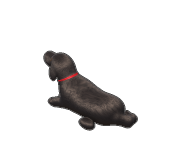
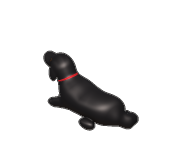
Myrtle: sleek, glossy short Labrador coat
- Smooth satin shading with soft glossy highlights on back, shoulders and
  head; only a hint of hair texture near the silhouette (no poodle curls)
- Darker, less grey back views; smooth otter tail (blended segments)
- Head carried higher so she looks forward, not down (sit and stand)
- Same thin red collar and brass tag, poses, facings, frame size and anchor

diff --git a/tools/make_myrtle.py b/tools/make_myrtle.py
@@ -42,9 +42,9 @@ PX_CM = math.hypot(56, 28) / 60 / math.cos(math.radians(45)) * math.cos(math.rad
 SCALE = 1.32 * 0.94                      # px per cm on screen; 0.94 keeps her at her old size
 EL = math.radians(30)
 
-COAT = np.array([22, 20, 21], np.float32)
-SHEEN = np.array([150, 132, 116], np.float32)      # satin, warm brown-grey (the photo's chest and head)
-RIM = np.array([84, 86, 96], np.float32)
+COAT = np.array([18, 17, 18], np.float32)
+SHEEN = np.array([150, 140, 134], np.float32)      # glossy, a warm grey (the photo's back, shoulders and head)
+RIM = np.array([70, 72, 80], np.float32)
 WARM = np.array([78, 54, 34], np.float32)
 LINE = (14, 11, 10)                                # painted outline
 COLLAR = np.array([196, 34, 40], np.float32)
@@ -284,7 +284,7 @@ def tail(pts, r0=5.4, r1=2.0):
     for i in range(n):
         ra = r0 + (r1 - r0) * i / n
         rb = r0 + (r1 - r0) * (i + 1) / n
-        out.append(RC(pts[i], pts[i + 1], ra, rb, k=3))
+        out.append(RC(pts[i], pts[i + 1], ra, rb, k=6))       # blended smooth: an otter tail, no knuckles
     return out
 
 
@@ -295,7 +295,7 @@ def pose_walk(i=None):
     parts = body_stand(bob)
     na, nb = (22, 0, 51 + bob), (33, 0, 63 + bob)
     parts += [RC(na, nb, 9.6, 7.4, k=5)]
-    parts += head_parts((39.5, 0, 67.5 + bob), look_up=-0.08)
+    parts += head_parts((39.5, 0, 67.5 + bob), look_up=0.12)
     wag = 0.45 * math.sin(ph) if moving else 0.18
     parts += tail([(-30, 0, 46 + bob), (-39, 6 * math.sin(wag), 40 + bob), (-46, 12 * math.sin(wag), 31 + bob),
                    (-49, 16 * math.sin(wag), 21 + bob)], 6.4, 2.2)
@@ -315,7 +315,7 @@ def pose_sit():
              EL_((-7, 10.2, 13), (12.5, 4.6, 10), k=4), EL_((-7, -10.2, 13), (12.5, 4.6, 10), k=4)]   # thighs
     na, nb = (12, 0, 56), (17, 0, 72)
     parts += [RC(na, nb, 9.4, 7.4, k=5)]
-    parts += head_parts((22, 0, 79), look_up=0.34, tongue=True, open_mouth=True)
+    parts += head_parts((22, 0, 79), look_up=0.42, tongue=True, open_mouth=True)
     for side in (6.2, -6.2):
         parts += [EL_((10, side * 1.08, 44), (6, 4.6, 8), k=4),                             # shoulder
                   RC((12, side, 41), (12.5, side * 1.02, 26), 6.0, 4.4, k=4),               # upper arm to elbow
@@ -427,34 +427,31 @@ def render(model, facing):
     nv = np.clip(n @ V, 0, 1)
     ao = np.clip(0.55 + 0.45 * (model.d(p + n * 2.5) / 2.5 + model.d(p + n * 6.0) / 6.0) * 0.5, 0.35, 1.0)
     upz = n[:, 2]
-    # fur direction: back along the body and down the legs and chest, laid
-    # flat on the surface. Brush strokes run along it, fine across it.
+    # A short, sleek Labrador coat: smooth satin shading, glossy soft
+    # highlights on back, shoulders and head, and only a hint of hair where
+    # the surface turns away at the silhouette.
     down = np.clip((34 - p[:, 2]) / 18, 0, 1) + 0.6 * np.clip(p[:, 0] / 12, 0, 1)
     flow = np.stack([-np.ones(len(p), np.float32), np.zeros(len(p), np.float32), -0.45 - 1.6 * down], 1)
     T = flow - n * np.einsum("ij,ij->i", flow, n)[:, None]
     T /= np.linalg.norm(T, axis=1, keepdims=True) + 1e-6
     B = np.cross(n, T)
-    a_ = np.einsum("ij,ij->i", p, T)
-    b_ = np.einsum("ij,ij->i", p, B)
-    c_ = np.einsum("ij,ij->i", p, n)
-    q = np.stack([a_, b_, c_], 1)
-    strokes = (vnoise(q * np.array([0.22, 1.5, 1.5], np.float32)) * 0.55
-               + vnoise(q * np.array([0.45, 3.4, 3.4], np.float32) + 17.0) * 0.30
-               + vnoise(q * np.array([0.10, 0.6, 0.6], np.float32) + 41.0) * 0.15)
-    fur = strokes
+    q = np.stack([np.einsum("ij,ij->i", p, T), np.einsum("ij,ij->i", p, B), np.einsum("ij,ij->i", p, n)], 1)
+    hair = vnoise(q * np.array([0.35, 2.6, 2.6], np.float32))          # fine, along the lie of the coat
+    edge = np.clip((1 - nv) * 1.6 - 0.55, 0, 1) ** 1.5                   # only near the silhouette
+    fur = 0.5 + (hair - 0.5) * (0.12 + 0.7 * edge)
     col = np.zeros((len(idx), 3), np.float32)
     m = mat == 0
-    key = COAT[None] * (0.6 + 1.3 * wrap[:, None]) * ao[:, None]
-    # satin strand highlight (Kajiya-Kay): soft bands across the hair, broken by the strokes
+    key = COAT[None] * (0.62 + 1.2 * wrap[:, None]) * ao[:, None]
+    # glossy: a broad soft lobe plus a tighter one, stretched a touch along the hair
     th = np.einsum("ij,j->i", T, H)
     sinth = np.sqrt(np.clip(1 - th * th, 0, 1))
-    lit_side = np.clip(nl + 0.2, 0, 1)
-    sheen = SHEEN[None] * ((0.30 * sinth ** 30 + 0.09 * sinth ** 8) * lit_side * (0.35 + 1.2 * fur) * ao)[:, None]
-    # a warm lift where the light catches chest, shoulders and head
-    warm_hi = np.clip(upz * 0.5 + nl * 0.7, 0, 1) ** 2
-    rim = RIM[None] * (0.45 * (1 - nv) ** 3.0 * np.clip(upz + 0.6, 0, 1.2))[:, None]
-    warm = WARM[None] * (0.30 * np.clip(-upz, 0, 1) + 0.26 * warm_hi * fur)[:, None]
-    coat = key * (0.82 + 0.36 * fur[:, None]) + sheen + rim + warm
+    gloss = 0.5 * nh ** 22 + 0.5 * (sinth ** 60) * nh ** 4
+    soft = nh ** 5
+    top = np.clip(upz * 0.6 + 0.5, 0, 1)                                # back, shoulders and head catch it most
+    sheen = SHEEN[None] * ((0.62 * gloss + 0.14 * soft) * (0.55 + 0.45 * top) * ao * (0.9 + 0.2 * fur))[:, None]
+    rim = RIM[None] * (0.22 * (1 - nv) ** 3.0 * np.clip(upz + 0.6, 0, 1.2))[:, None]
+    warm = WARM[None] * (0.26 * np.clip(-upz, 0, 1))[:, None]
+    coat = key * (0.92 + 0.16 * fur[:, None]) + sheen + rim + warm
     col[m] = coat[m]
     lit = (0.45 + 0.8 * wrap)[:, None]
     spec = (nh ** 30)[:, None]

diff --git a/NOTES.md b/NOTES.md
@@ -31,10 +31,10 @@ and depth sorting stay untouched.
   of a Labrador (round cones and ellipsoids with smooth unions: deep chest,
   tucked waist, rounded skull, drop ears, otter tail, shaped legs and paws),
   ray-marched through the house's 2:1 camera at 3x with the rooms' light, a
-  satin strand highlight (Kajiya-Kay) along a fur-direction field (back along
-  the body, down the legs and chest) broken by brush-stroke noise, warm
-  brown-grey lifts on chest, shoulders and head, a warm floor bounce, then
-  downsampled with a soft painted outline. The sit pose follows the
+  short, sleek, glossy coat (she is a short-haired Labrador): smooth shading,
+  soft warm-grey highlights strongest on back, shoulders and head, and only a
+  hint of hair texture near the silhouette; a smooth otter tail; a warm floor
+  bounce, then downsampled with a soft painted outline. The sit pose follows the
   reference photo (upright, straight forelegs, big paws, mouth open, tongue
   out); the photo itself stays out of the repo. Output in `assets/myrtle/`: standing,
   an 8-frame walk, sitting and lying (curled a little to fit her bed), in
